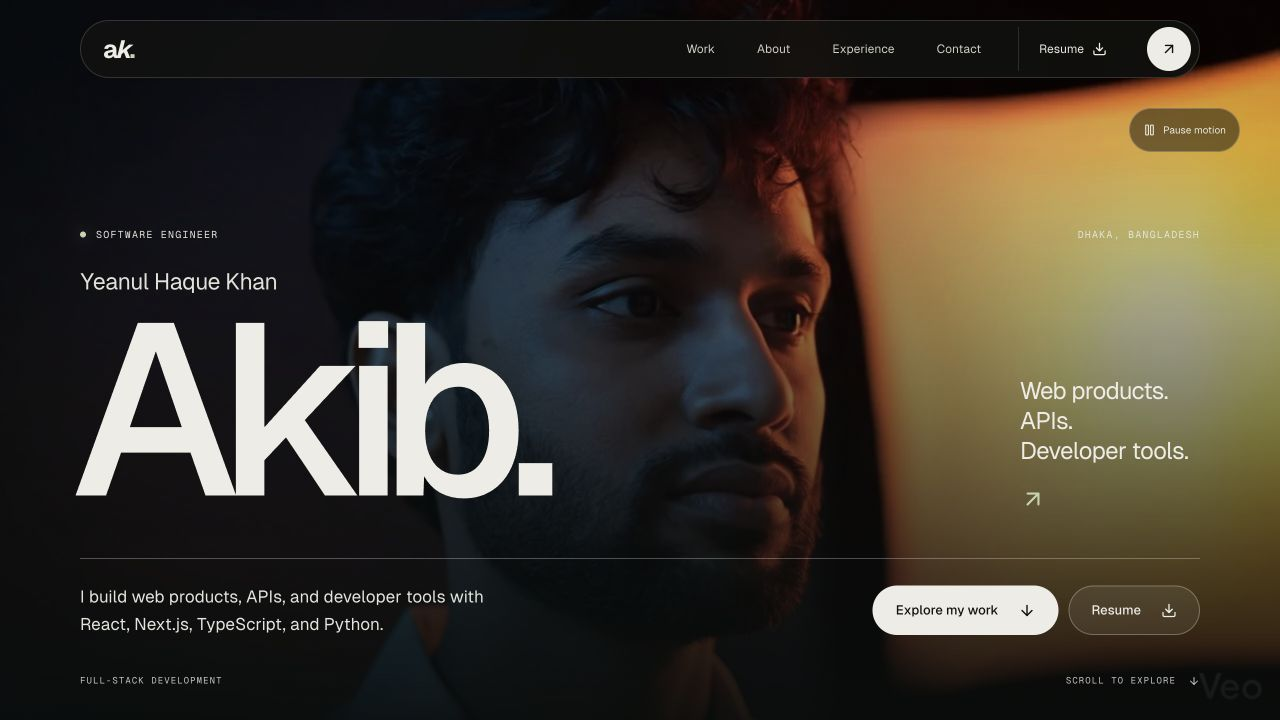
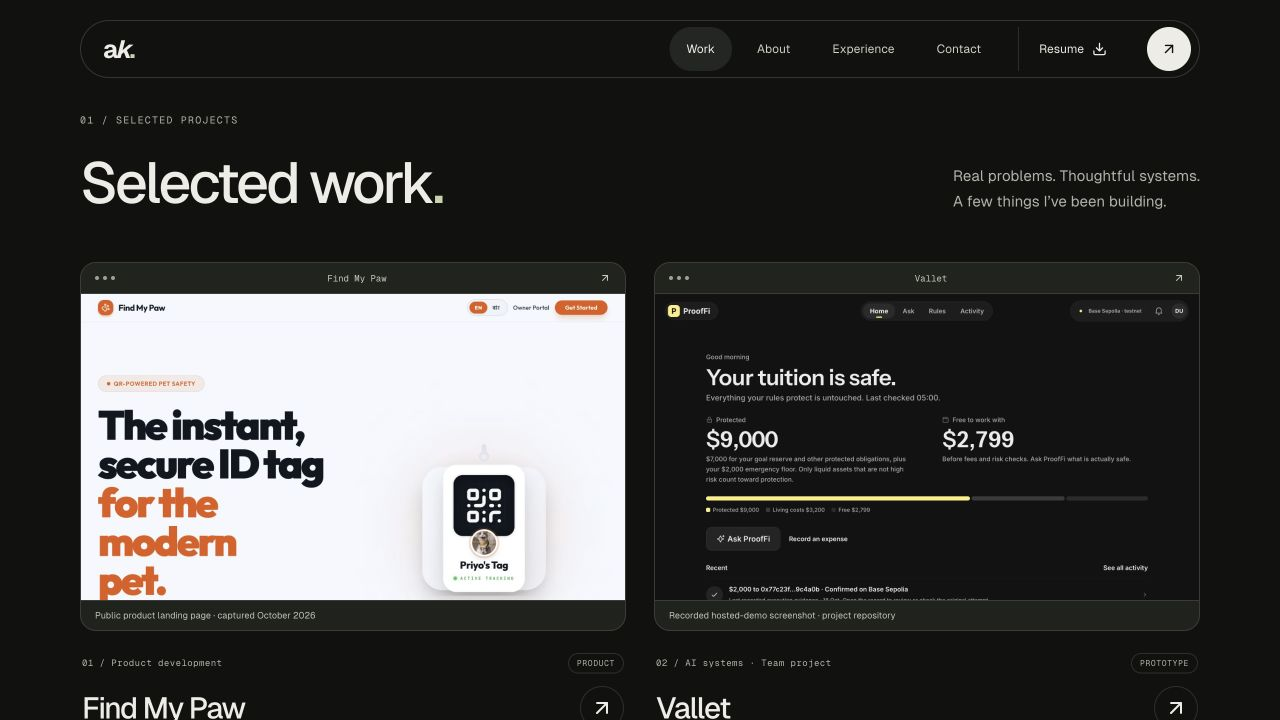
docs: record final local verification and asset provenance

diff --git a/docs/qa/portfolio-release.md b/docs/qa/portfolio-release.md
@@ -1,0 +1,59 @@
+# Local implementation and verification — 27 October 2026
+
+Updated preview: http://127.0.0.1:3001/
+Branch: `codex/portfolio-update`
+Checkout: `/Users/yeanul/Documents/ChatGPT/Portfolio/portfolio-update`
+Source implementation revision: `9dbacc7` (later report commits change documentation only).
+
+## Delivered
+
+- Immediate server-rendered portrait and useful text/actions. The original 144-frame load gate is replaced with bounded current/nearby loading, finite retries, last-frame/poster fallback, pause, reduced-motion/Save-Data defaults and visibility suspension.
+- Stable reserved hero geometry: direct project/contact anchors work after hydration; Pause does not collapse the page. Canvas backing dimensions follow its actual rendered bounds, including short/zoomed viewports.
+- Versioned original-quality PNGs and poster, with immutable browser caching only on versioned paths. All 144 generated-path copies compare byte-for-byte with their originals. The resume copy's SHA-256 matches the supplied PDF.
+- Six curated case studies, four primary projects and supporting work. Updated skills, professional experience, teaching, education and six achievements. Owner-confirmed lead architect/developer attribution, with team and prototype context.
+- Genuine deployment screenshots for Find My Paw, Jointly and LocalRelay; recorded Vallet hosted-demo images; an explicitly labeled earlier ResearchLens interface retained inside its story. Owner-requested Imprnt/ResearchLens editorial covers are separate, clearly captioned illustrations. Full prompts and paths: `generated-covers.md`.
+- Accessible compact navigation and resume access; proper headings/skip link/focus; canonical metadata, social preview, favicon, robots and sitemap; responsive layouts.
+- Reliable contact success/error/timeout/duplicate handling. Fields are locked while sending so unsent edits are not cleared. With JavaScript disabled, the form is hidden and direct email remains available, avoiding accidental GET submission of private text.
+- Typed content files, provenance notes, README, CI, curated external-link checker and an optional reproducible local lab script.
+
+## Verified results
+
+| Check | Result |
+|---|---|
+| Clean `npm ci --ignore-scripts` | Passed; audited install reported zero advisories |
+| `npm run lint` | Passed |
+| `npm run test:unit` | 9 passed |
+| `npm run build` | Passed; six statically generated case studies |
+| `npm run typecheck` | Passed |
+| `PORTFOLIO_BROWSER_CHANNEL=chrome npm run test:e2e` | 34 passed, desktop and emulated mobile |
+| Full and production-only npm audits | Both zero known vulnerabilities at review time |
+| Curated external link report | All 14 selected destinations returned HTTP 200; status only, not full feature verification |
+| Real capture files | Native JPEG bytes preserved; extensions corrected and lightweight images served directly |
+| Original animation frames | 144/144 byte-identical |
[1 lines of base64/hex data omitted]
+
+Browser checks cover missing frames, no-JS rendering, motion preference, direct anchors, stable pause, short-height canvas sizing, 320/375/390/768/1280px overflow, local resume and metadata, all six case-study routes, unknown slug, asset caching, and mocked contact success/rejection/invalid-JSON/failure/timeout/duplicate/draft behavior. Real submission was not sent.
+
+An independent reviewer identified short-height portrait distortion and contact edits-during-submit loss; both were reproduced and fixed with regression tests. Further visual checks exposed direct-link/pause layout shifts; their regressions also pass. Final browser suite completed in 30.9 seconds on this machine. The review decisions and boundaries are in `implementation-decisions.md`.
+
+## Candidate-only loading sample
+
+See `candidate-performance.json` and `scripts/measure-performance.mjs`. Three fresh-context cold visits and three warm revisits use a 390×844 Chromium viewport, configured 150ms latency, 1.6 Mbps downlink and 4× CPU slowdown. These are local browser observations, not a deployed Lighthouse score or real-user measurements. A like-for-like original-production timing baseline was not captured; no speedup percentage is claimed. LCP is the browser's selected content candidate, not a claim that every image or frame has finished loading.
+
+Final medians: cold LCP 652ms / warm 340ms; CLS approximately 0.00117 / 0.000116. The reliable request-budget observation is **three initial sequence requests**, with about 1.4 MB of frame transfer on cold visits and **zero frame bytes retransferred** on warm visits. The hero no longer waits for all 144 frames. Browser eviction can still force future downloads.
+
+## Remaining boundaries and next inputs
+
+- No GitHub push, merge, Vercel preview or production publication was performed. CI is configured but has not run on GitHub. Verify actual deployed headers and noindex behavior on a release preview before publishing.
+- External demo reliability remains separate project work: Vallet session readiness, Imprnt hosting and a public ResearchLens V2 URL. Their unavailable/protected destinations are not presented as live app buttons.
+- Award/certificate/event photos have not yet been supplied. The achievements content is ready; add real owner-provided images with event/year captions when received. Do not fabricate award evidence.
+- Original animation quality is preserved. Optional lossy format comparisons remain a separate owner decision. The generated project covers do not change the animation assets.
+- Browser checks use installed Chrome with desktop/mobile emulation. They are not a full Safari/device/screen-reader certification or an exact OS/browser 200% zoom audit; short-height/reflow and keyboard-ready controls were inspected.
+- ESLint 9 is pinned to satisfy current Next plugin peers; the registry marks that development-tool major deprecated. No unsupported peer override was used. Revisit when the plugin set supports the newer major.
+- Web3Forms's documented optional honeypot is present, with local guards; provider delivery and stronger anti-spam/domain settings were not independently exercised. See the provider's [honeypot documentation](https://docs.web3forms.com/getting-started/customizations/spam-protection/spam-protection) for its stated limitations.
+
+## Local run / rollback
+
+`cd /Users/yeanul/Documents/ChatGPT/Portfolio/portfolio-update && npm run dev -- --port 3001` for editable development, or build then `npm run start -- --port 3001` for production mode. Stop the existing preview process before binding the same port.
+
+The original checkout and its revision remain available at `../portfolio_animated`. The implementation branch/worktree is retained for review and adding award photos. For any future publication, keep the preceding Vercel deployment and roll back by promoting it; don't overwrite bytes under an existing content hash.

diff --git a/docs/qa/implementation-decisions.md b/docs/qa/implementation-decisions.md
@@ -28,3 +28,4 @@ Final: Ruling: paused motion retains the intro's reserved layout rather than col
 Final: fixed capture MIME extension mismatch and removed redundant runtime transformation for already lightweight genuine captures — direct JPEG regression RED→GREEN. Original capture bytes preserved; generated covers retain optimized responsive delivery.
 Task 11: clean npm ci, lint, 9 unit tests, build, typecheck, and full browser suite 34/34 GREEN. Full and production audit both zero at review time; 14 curated public links returned HTTP 200. CI configured but not run on GitHub; no deployment performed.
 All local implementation tasks delivered except optional lossy conversion, separately approved live delivery/preview hosting, and achievement photos not yet supplied. Original-production lab baseline is unavailable; candidate-only lab samples recorded honestly.
+Final validation: 34/34 browser checks and 9/9 unit checks pass after all functional fixes. Candidate-only final cold/warm sample saved; no original-production speedup percentage claimed. Branch retained locally, preview 3001 verified in browser; award photos await owner upload.

diff --git a/docs/qa/accessibility.md b/docs/qa/accessibility.md
@@ -1,0 +1,5 @@
+# Accessibility verification scope
+
+Server-rendered main content, one h1 per route, h2 section headings, named navigation/actions, skip link, visible keyboard focus and label/input associations are present. Reduced motion defaults to a static poster; explicit Play is an opt-in. Images carry descriptive alt text/captions; generated imagery is labeled separately from actual screenshots. Contact feedback uses live status/error semantics, and no-JavaScript visitors have direct email access.
+
+Automated viewport checks pass at widths 320, 375, 390, 768 and 1280px; a 390×600 test verifies canvas aspect ratio, covering a short-window failure found in review. Desktop and emulated-mobile visual captures are under `screenshots/`. No horizontal overflow was detected in those checks. This is not a complete assistive-technology audit; exact browser/OS zoom, real Safari and screen-reader behavior remain release review scope.
